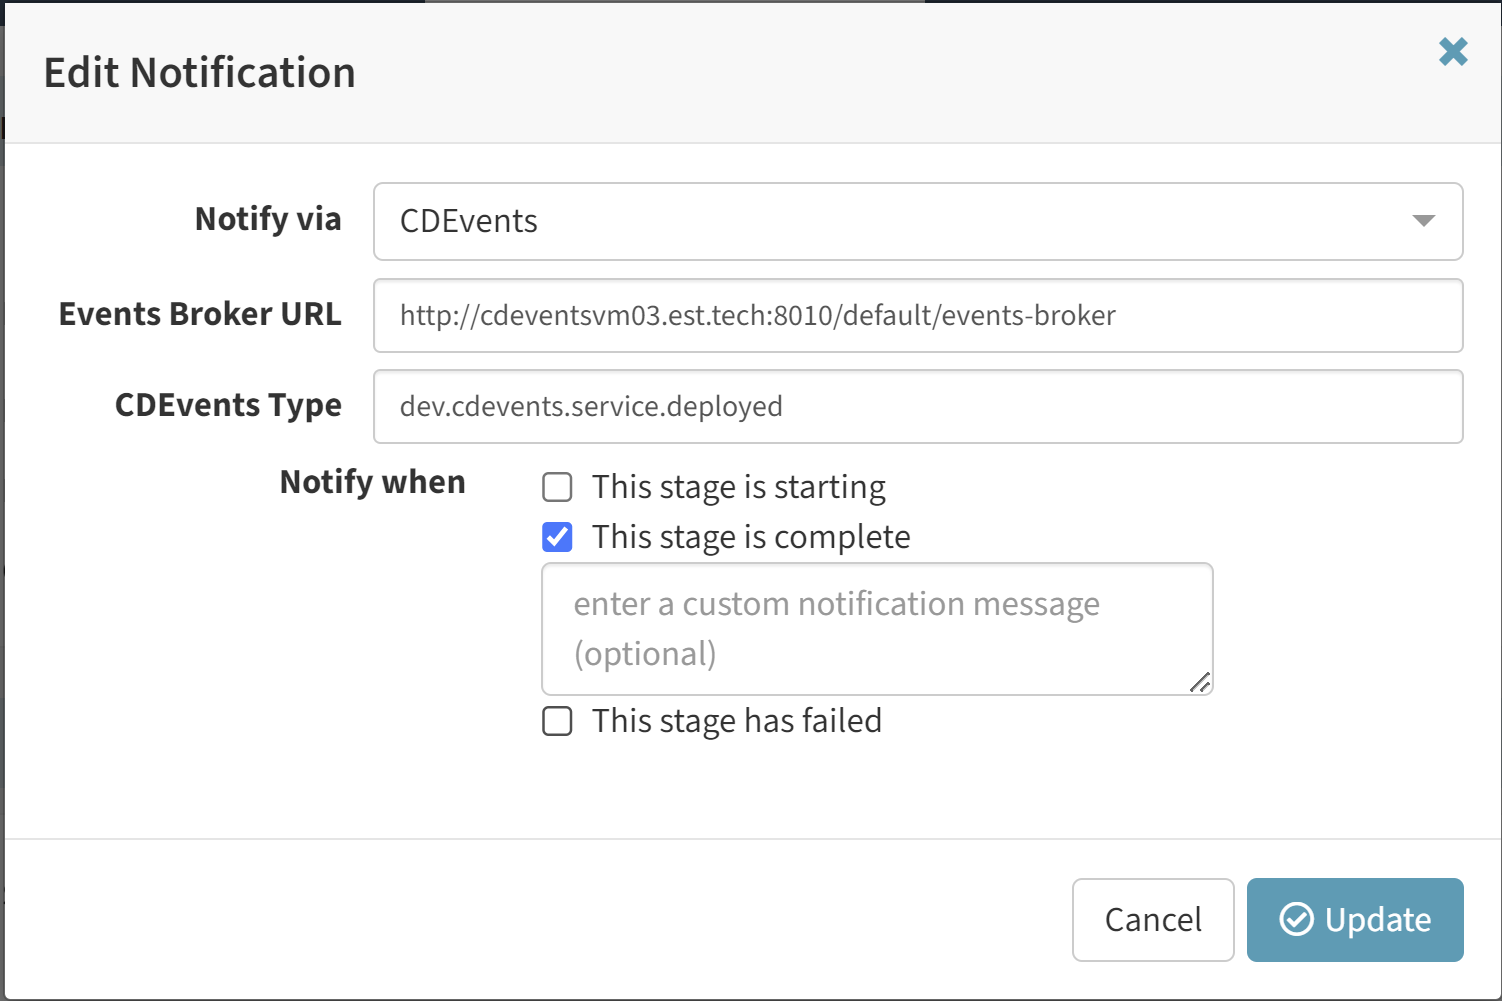
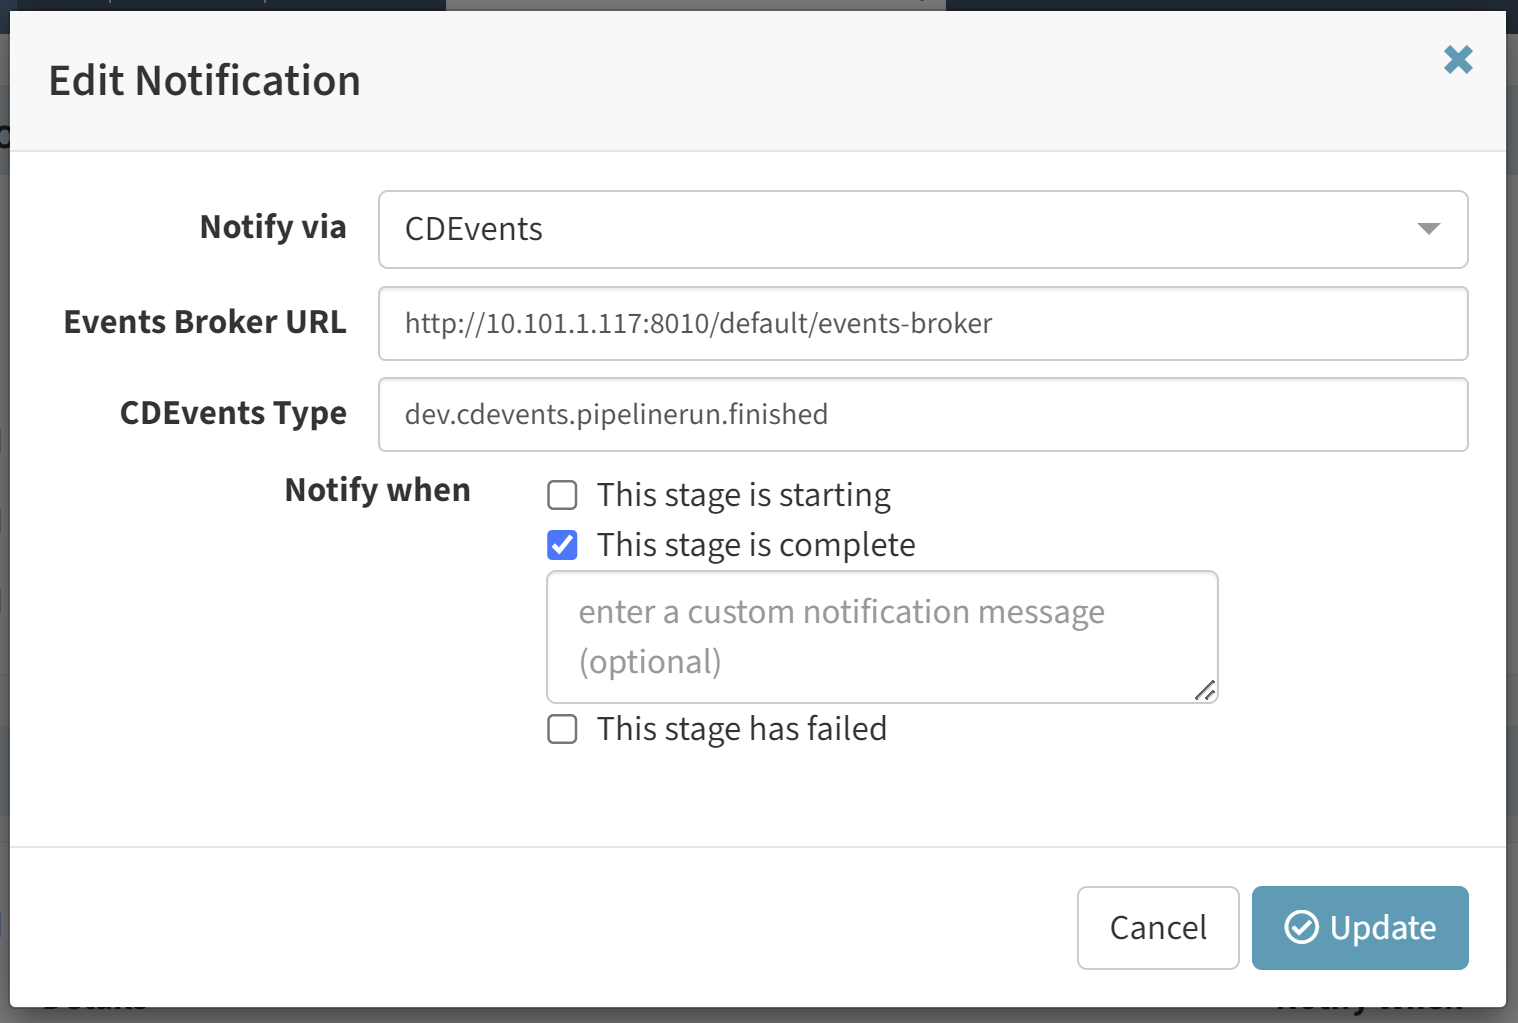
Updated doc with review comments

Changed region(s): [[0.0, 0.0, 1.0, 1.0], [0.7963, 0.6503, 0.8269, 0.6813]]

diff --git a/content/en/docs/setup/other_config/features/notifications/index.md b/content/en/docs/setup/other_config/features/notifications/index.md
@@ -134,12 +134,18 @@ cdevents:
   enabled: true
 ```
 
-Spinnaker supports sending CDEvents to [Message Broker](https://www.enterpriseintegrationpatterns.com/patterns/messaging/MessageBroker.html)
+Spinnaker supports sending CDEvents to a [Message Broker](https://www.enterpriseintegrationpatterns.com/patterns/messaging/MessageBroker.html).
+The Message Broker is defined in the notification trigger itself.
+
+For example, [Knative Eventing](https://knative.dev/docs/getting-started/) can be configured as a Message Broker to receive CDEvents.
 
 When configuring a CDEvents notification, In the Edit Notification window, specify CDEvents in the Notify via field and enter the full Message Broker URL in the `Events Broker URL` text box.
 
-To send a specific type of CDEvents, enter the CDEvents Type in the `CDEvents Type` text box. Different types of CDEvents can be found in the [CDEvents Specification](https://github.com/cdevents/spec). 
+To send a specific type of CDEvents, enter the CDEvents Type in the `CDEvents Type` text box. Different types of CDEvents can be found in the [CDEvents Specification](https://github.com/cdevents/spec).
+ 
 ![](cdevents.png)
+
+Note: Currently Spinnaker supports sending [Continuous Delivery Core Events](https://cdevents.dev/docs/core/)
 
 ## Using notifications
 
